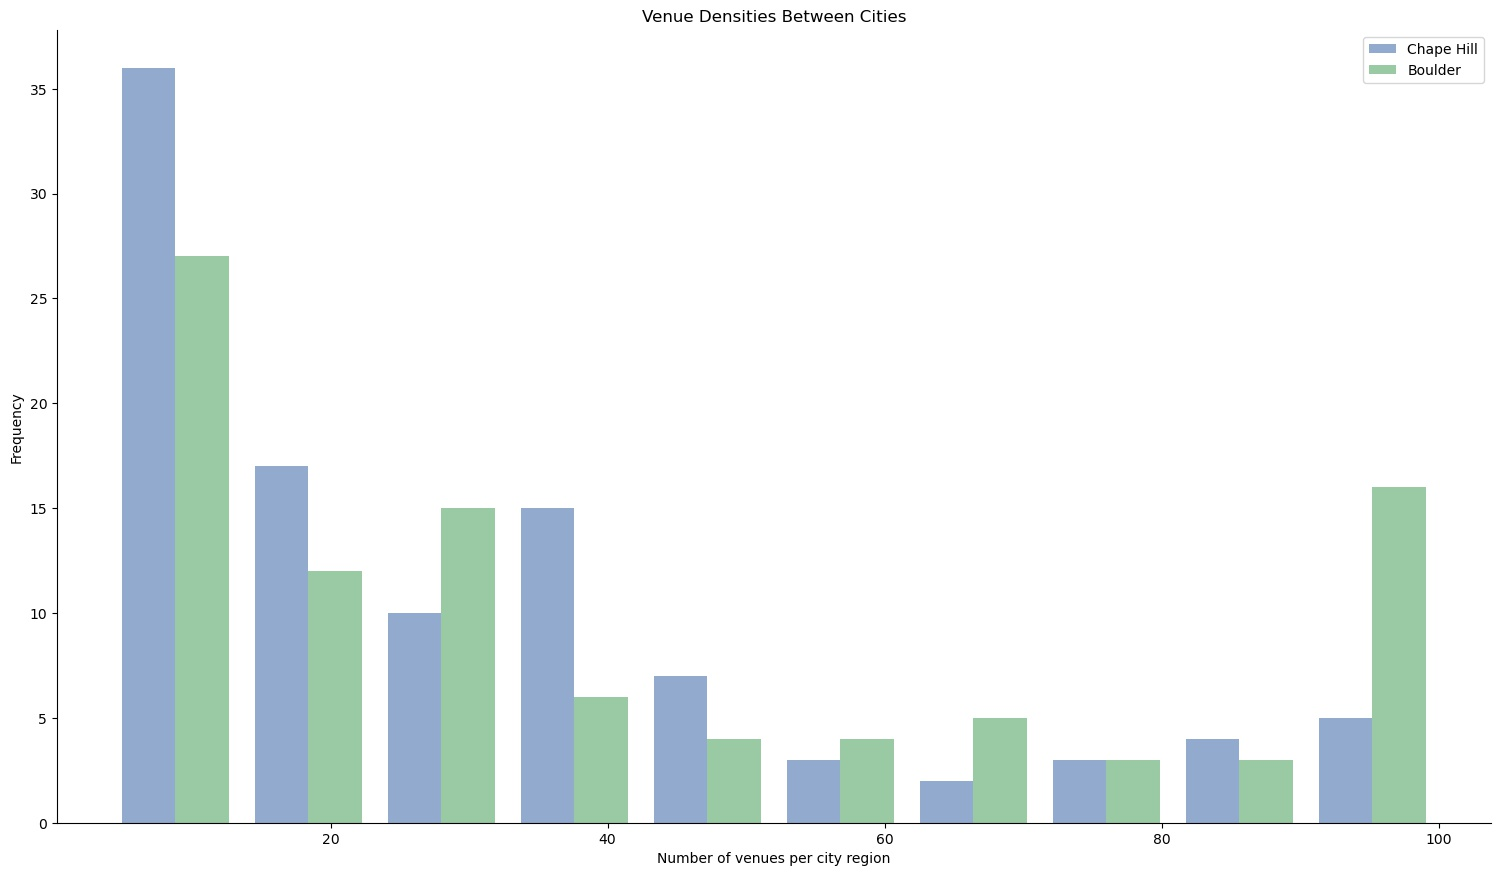
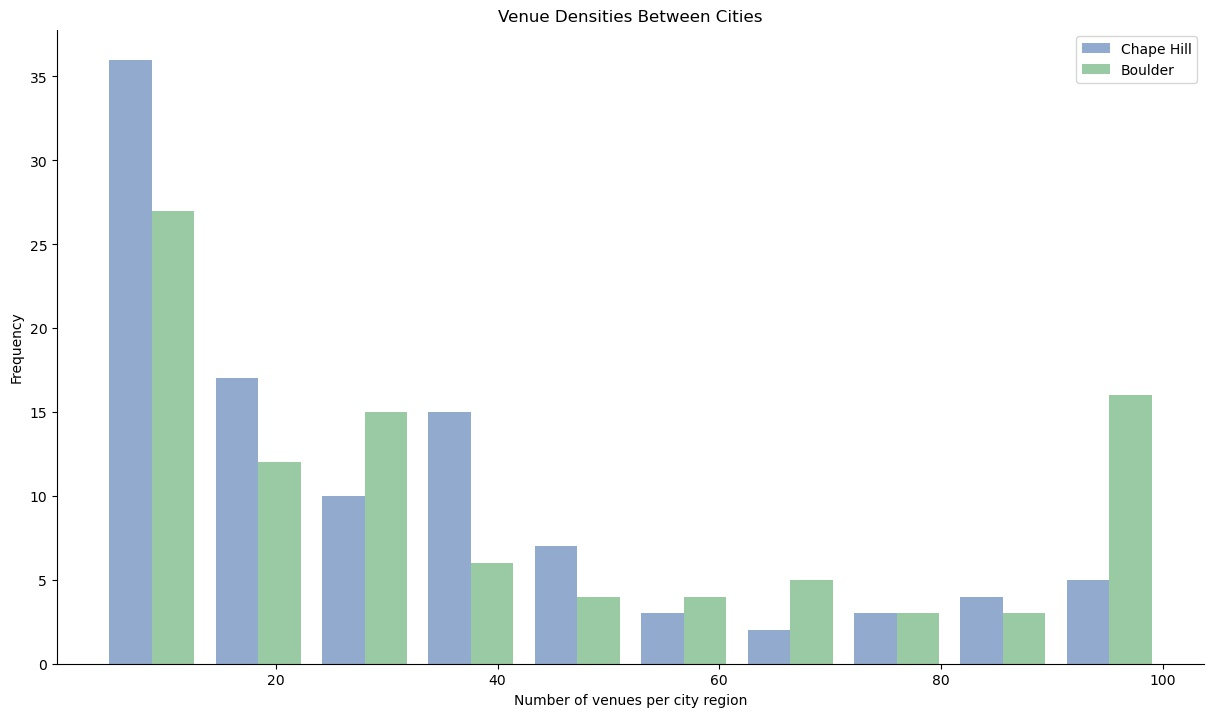
Resize plot

diff --git a/Process_and_Cluster.py b/Process_and_Cluster.py
@@ -75,7 +75,7 @@ if __name__ == '__main__':
     ax.spines['top'].set_visible(False)
     ax.spines['right'].set_visible(False)
     
-    fig.set_size_inches(18.5, 10.5)
+    fig.set_size_inches(18.5*0.8, 10.5*0.8)
     plt.savefig('Venue_Density_Plot.jpeg',
                 bbox_inches = 'tight',
                 dpi = 100)
